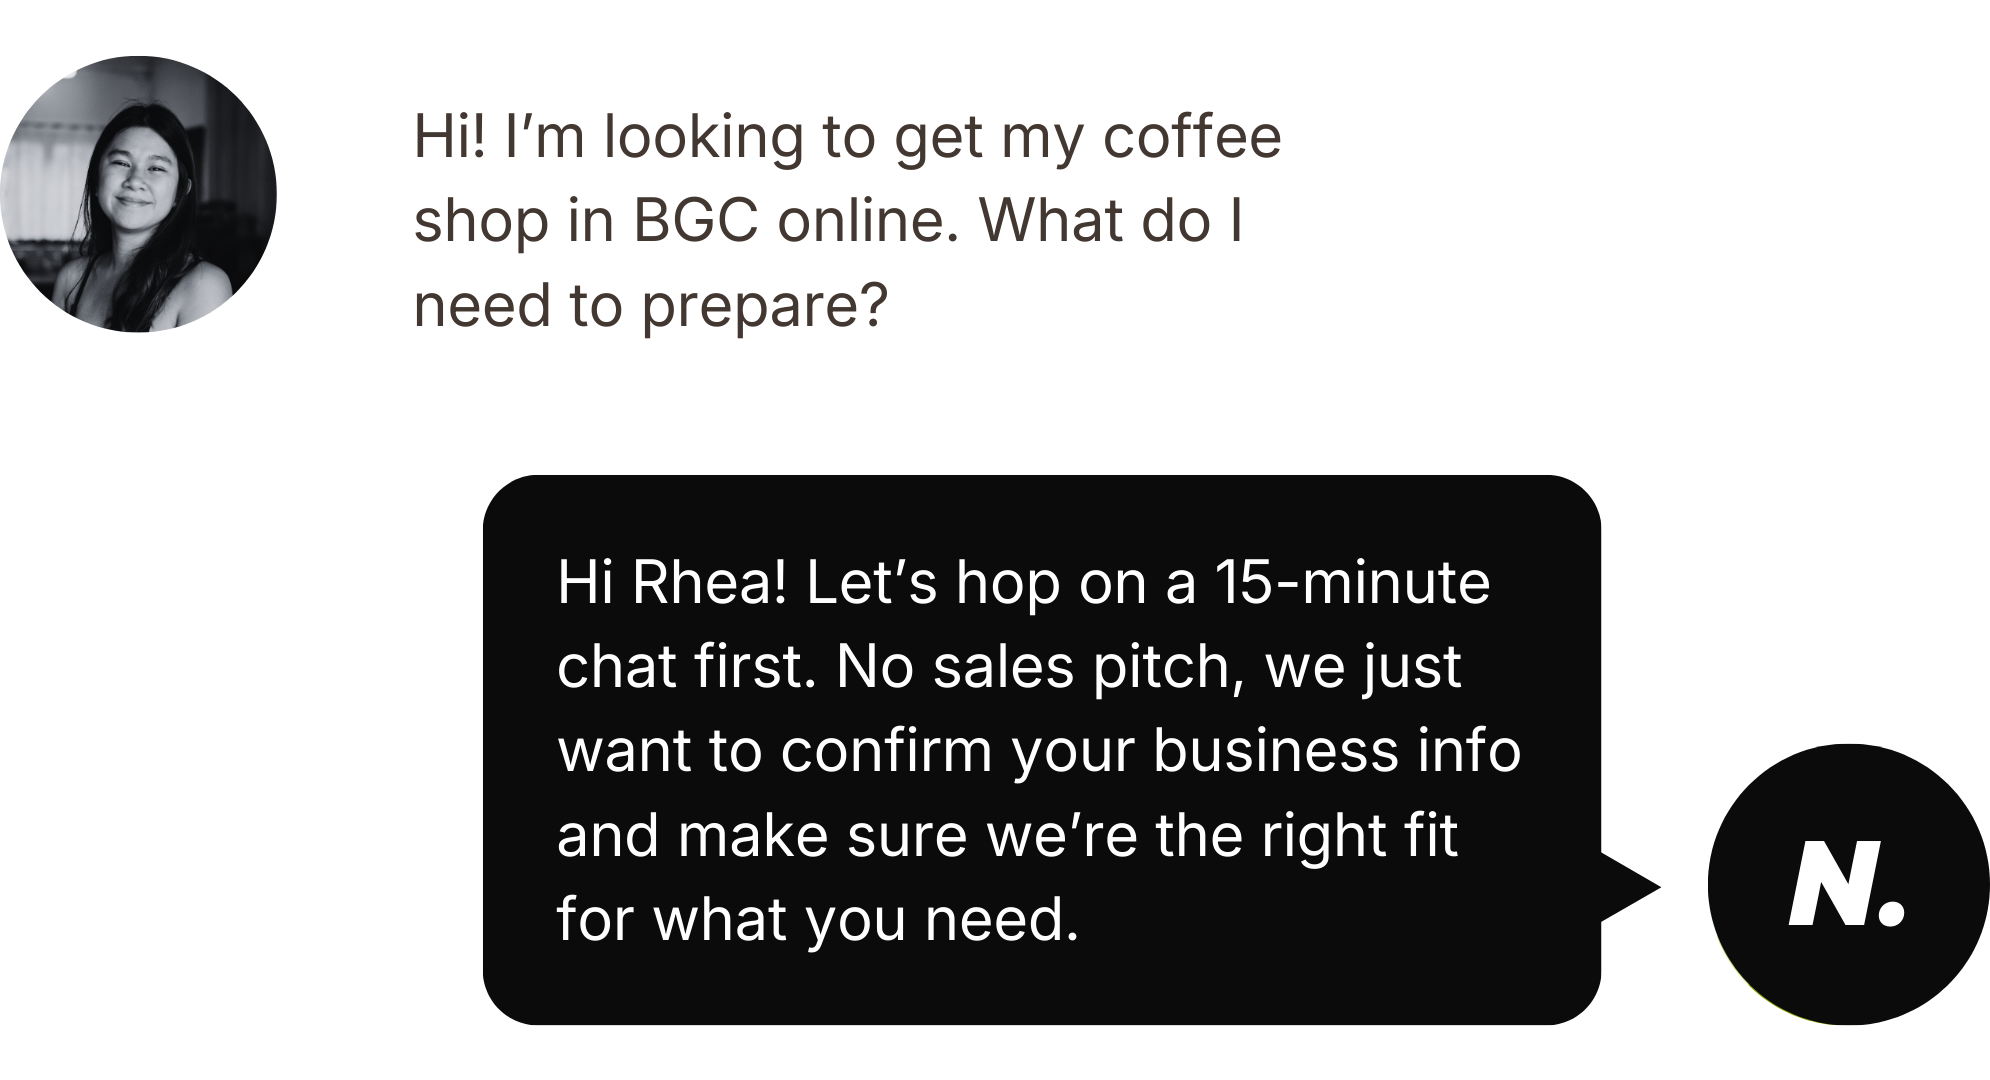
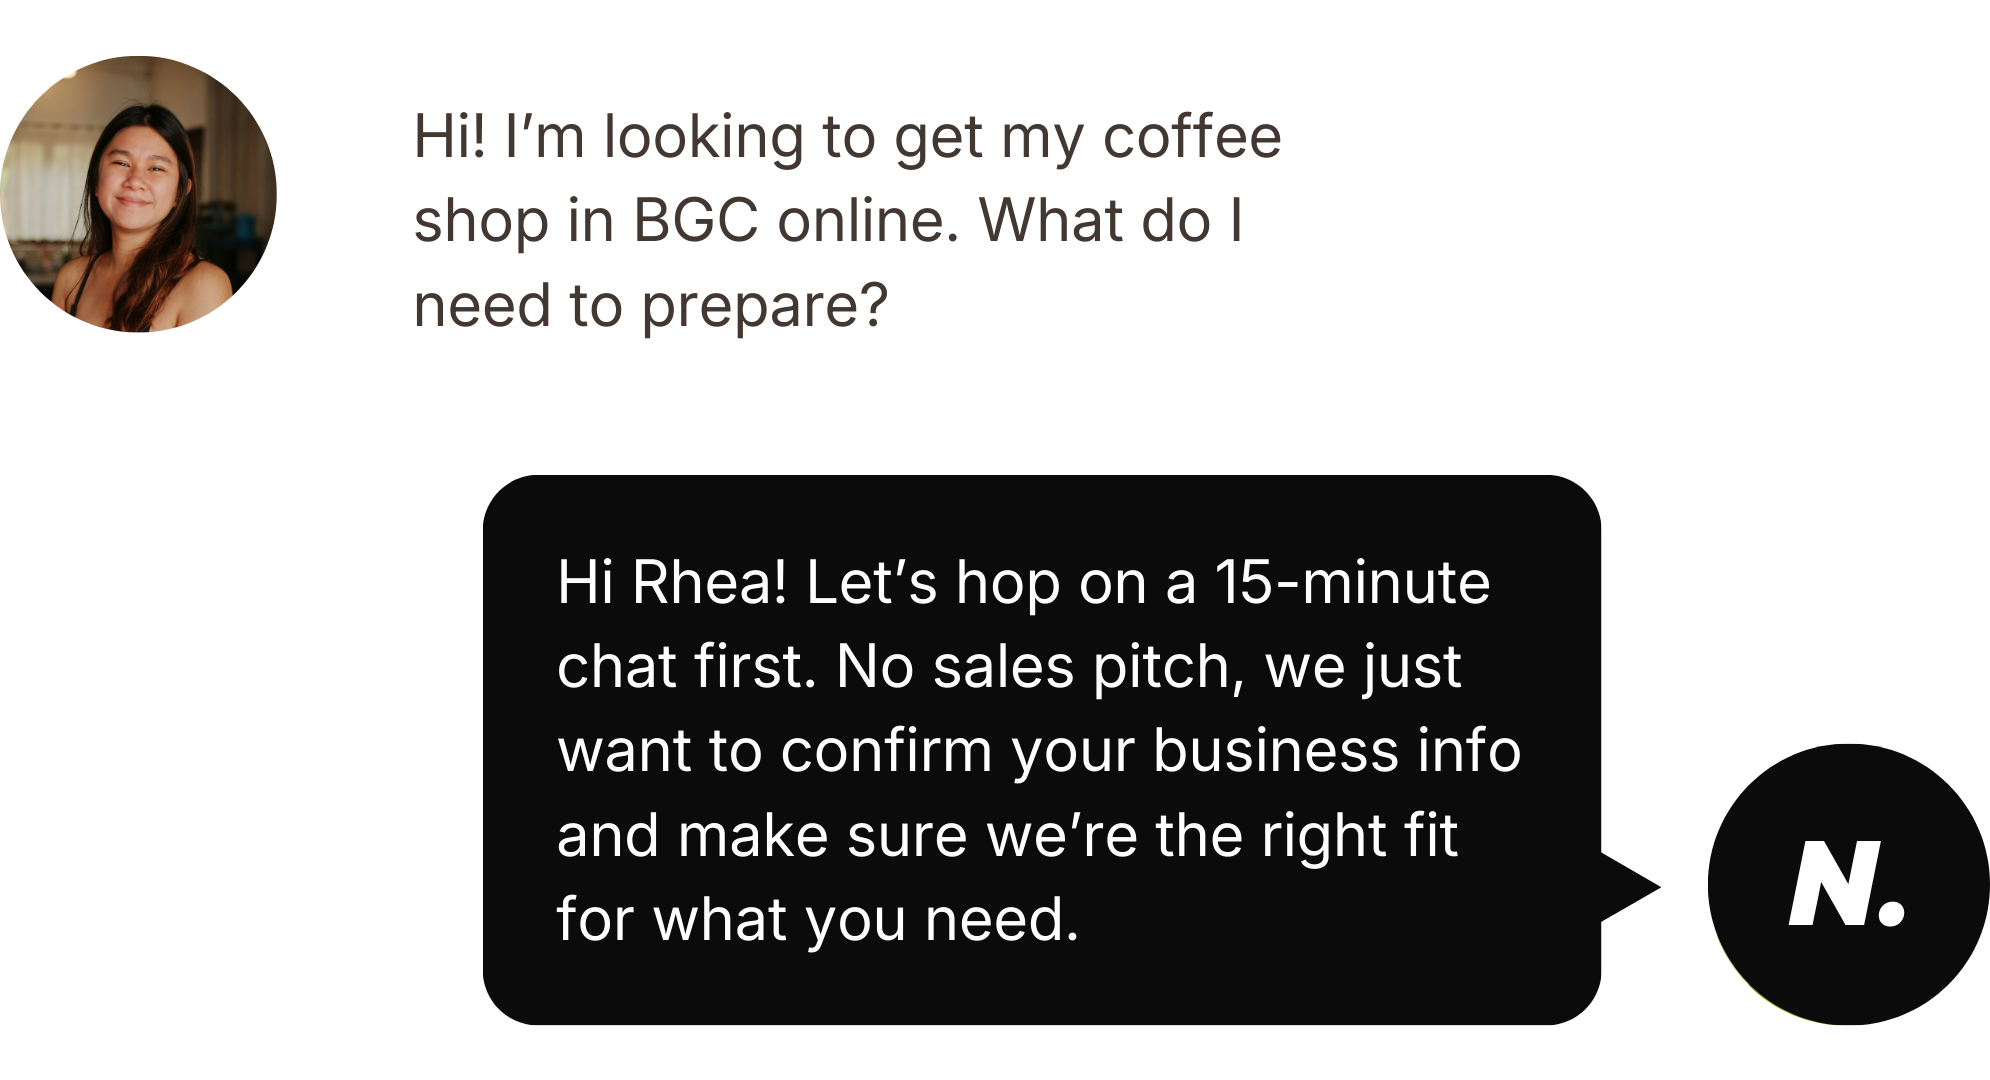
remove grayscale

Changed region(s): [[0.0, 0.0306, 0.1558, 0.3056]]

diff --git a/components/HowItWorks.tsx b/components/HowItWorks.tsx
@@ -148,7 +148,7 @@ export default function HowItWorks() {
                         s.num === "01"
                           ? "w-[90%] object-contain"
                           : s.num === "03"
-                            ? "h-full w-full object-cover saturate-[0.15]"
+                            ? "h-full w-full object-cover"
                             : "h-full w-full object-cover"
                       }
                       sizes="(min-width: 640px) 33vw, 100vw"

diff --git a/components/FAQ.tsx b/components/FAQ.tsx
@@ -116,7 +116,7 @@ export default function FAQ() {
                 alt={logo.alt}
                 width={80}
                 height={32}
-                className="h-6 w-auto object-contain grayscale opacity-80 transition-all duration-200 hover:grayscale-0 hover:opacity-100"
+                className="h-6 w-auto object-contain opacity-80 transition-opacity duration-200 hover:opacity-100"
               />
             ))}
           </div>

diff --git a/components/SocialProofBar.tsx b/components/SocialProofBar.tsx
@@ -43,7 +43,7 @@ export default function SocialProofBar() {
                 alt={city.alt}
                 width={city.width}
                 height={city.height}
-                className="w-full object-contain grayscale transition-[filter] duration-300 hover:grayscale-0"
+                className="w-full object-contain"
               />
             </div>
           ))}
